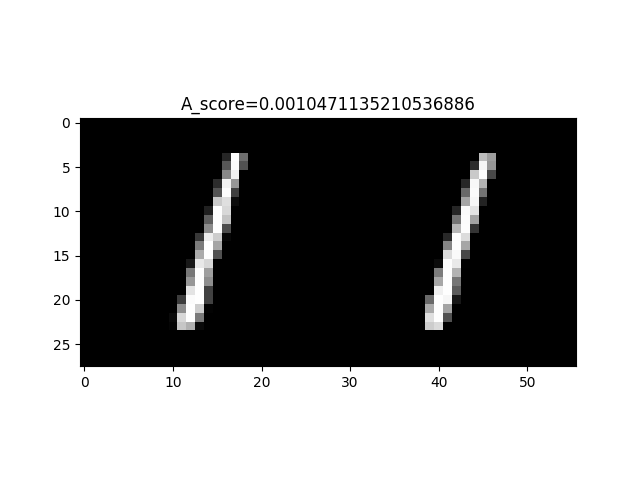
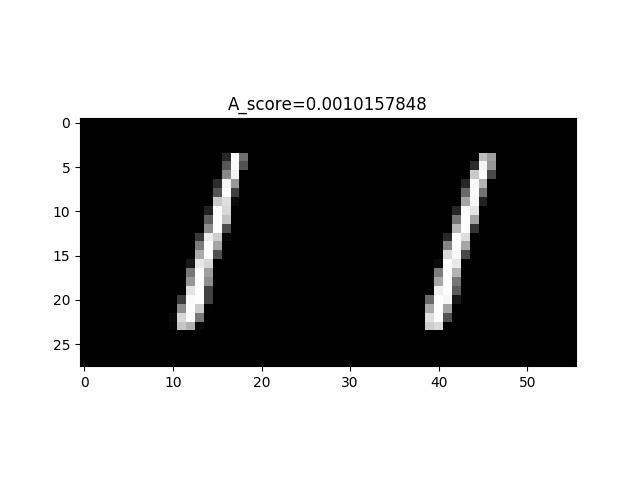
fix

Changed region(s): [[0.2812, 0.1875, 0.75, 0.25]]

diff --git a/Generation/GAN/fAnoGAN/Predictor.py b/Generation/GAN/fAnoGAN/Predictor.py
@@ -34,11 +34,11 @@ enc = Network.AE()
 gen.to_cpu()
 enc.to_cpu()
 dis.to_cpu()
-load_path = 'result/{}/gen_epoch_{}.npz'.format(args.method, args.Premodel)
+load_path = 'result/{}/gen_epoch_{}.npz'.format(args.method, args.epoch)
 chainer.serializers.load_npz(load_path, gen)
 load_path = 'result/{}/enc_epoch_{}.npz'.format(args.method, args.epoch)
 chainer.serializers.load_npz(load_path, enc)
-load_path = 'result/{}/dis_epoch_{}.npz'.format(args.method, args.Premodel)
+load_path = 'result/{}/dis_epoch_{}.npz'.format(args.method, args.epoch)
 chainer.serializers.load_npz(load_path, dis)
 x_real = np.reshape(test[0],(1, 1, 28, 28))
 k=1
